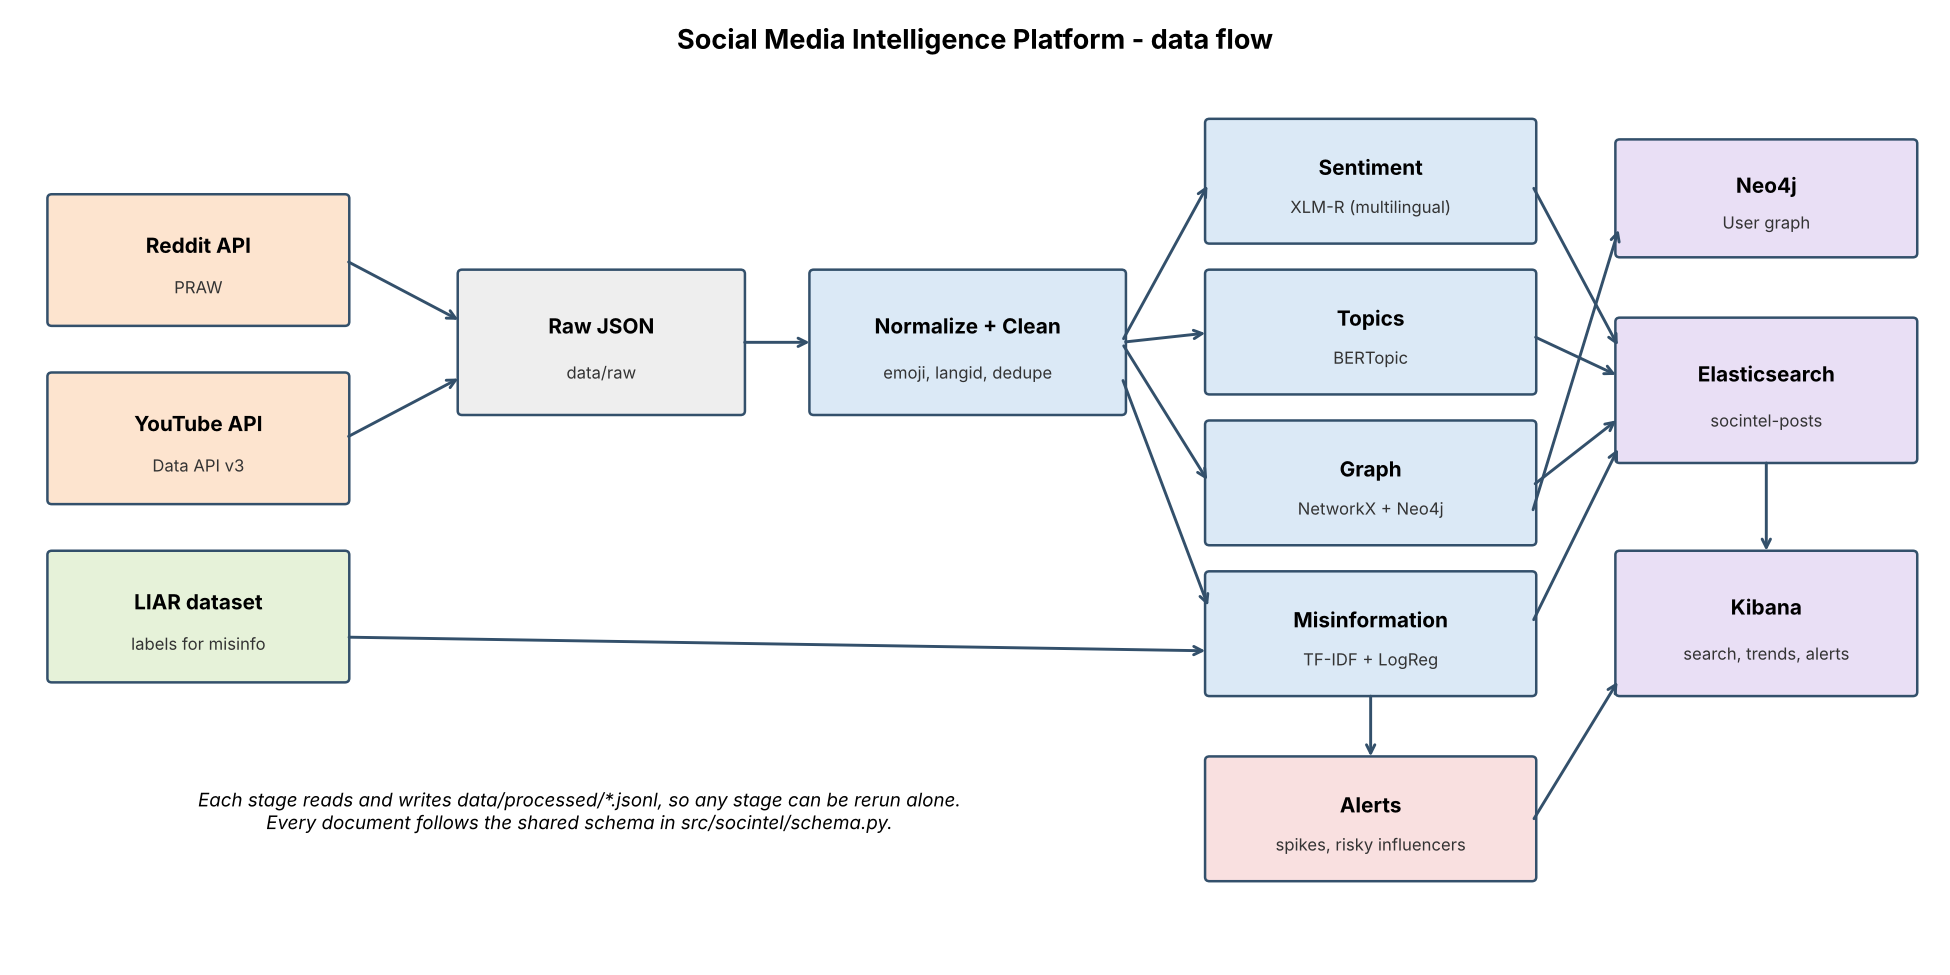
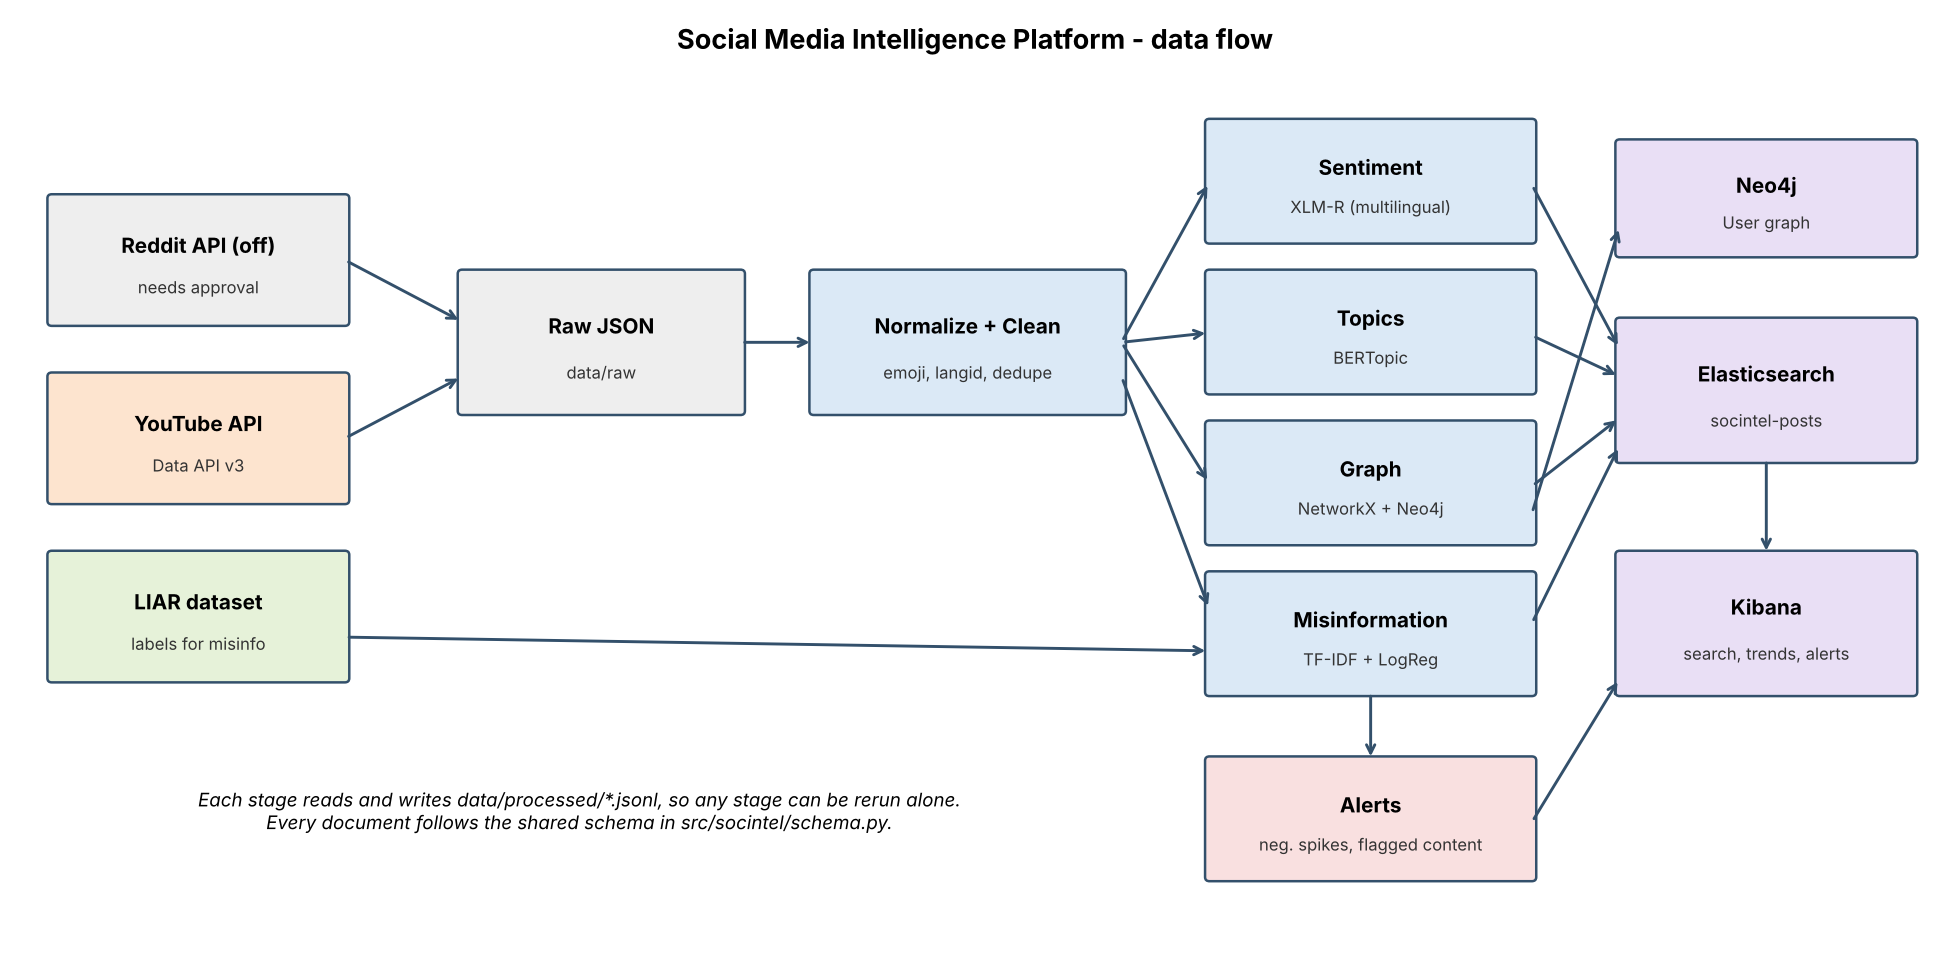
Results from the real run, updated README, Kibana guide and diagram

Changed region(s): [[0.0, 0.1846, 0.1846, 0.3385], [0.6462, 0.8615, 0.7692, 0.8923]]

diff --git a/docs/results.md b/docs/results.md
@@ -1,44 +1,117 @@
 # Results
 
-> Fill this in from `data/processed/metrics.json` and the CSVs after running the pipeline on real data.
-> Do not quote numbers that the pipeline did not produce.
+All numbers come from `data/processed/metrics.json` or the CSVs next to it, from one run on 25 Oct 2026.
+Items marked **TODO** have not been measured yet and are left open on purpose. Numbers labelled "my labels" come from my own hand check (`scripts/make_review_sheets.py`, `scripts/score_review.py`).
 
 ## Data collected
-- YouTube videos / comments / replies: _
-- Public benchmarks used: TweetEval, Amazon multilingual, LIAR, SNAP
-- After cleaning: _ rows, language mix: _ (`metrics.json` -> `clean`)
+- YouTube: 299 videos from 12 search queries (English, Hindi, Spanish and German queries), top-level comments plus
+  up to 5 inline replies per thread. Reddit was not collected (needs Reddit approval, see README).
+- After cleaning and de-duplication: **11,233 rows**.
+- Language mix (detected): en 66.1%, und 13.5% (too short or ambiguous), pt 4.7%, de 3.8%, mr 2.6%, hi 2.4%,
+  id 2.1%, es 1.2%, ko 0.7%, ru 0.6%.
+- Time spread: comments run from 2011 to 24 Oct 2026, but 16.9% are from before 2026 and **4,332 (38.6%) are from the
+  last week of collection** (week of 19 Oct). YouTube search returns recent videos, and fresh videos collect most of
+  their comments early. Weekly counts before that week are 241 to 572.
+- Public benchmarks used: TweetEval, Multilingual Amazon Reviews (SetFit port), LIAR, SNAP Reddit hyperlinks.
 
 ## Sentiment
-- Label distribution on our data: _
-- TweetEval (English test sample) accuracy / macro-F1: _ / _  (`bench_tweeteval`)
-- Multilingual Amazon Reviews, accuracy / macro-F1 per language: _ (`bench_amazon_by_language`)
-- Throughput (docs/sec on CPU or GPU used): _
-- Observations: sentiment over time chart, any events visible, languages where it looks weak.
+Model: `cardiffnlp/twitter-xlm-roberta-base-sentiment`, run on CPU (Intel i3) at 18.2 docs/s.
+
+- Label share on our comments: negative 48.5%, neutral 29.1%, positive 22.4%.
+- TweetEval (English tweets, 2,000 test samples): accuracy 0.661, macro-F1 0.660.
+- Multilingual Amazon Reviews, 1,000 test reviews per language, 1-2 stars = negative, 3 = neutral, 4-5 = positive:
+
+| language | accuracy | macro-F1 |
+|---|---|---|
+| en | 0.688 | 0.584 |
+| de | 0.653 | 0.528 |
+| es | 0.669 | 0.576 |
+| fr | 0.686 | 0.553 |
+| ja | 0.665 | 0.562 |
+| zh | 0.629 | 0.525 |
+
+- Reading these: the model was trained on tweets, not product reviews, and "3 stars = neutral" is a rough label, so
+  macro-F1 sits well below accuracy. English is best, Chinese worst, the rest are within a few points of each other.
+- **Check on our own data:** I labelled 100 random comments from the collected set by hand (one annotator, labels
+  recorded before looking at the model's). Model vs my labels: **accuracy 0.73, macro-F1 0.695** (n = 100, so
+  roughly +/- 9 points at 95% confidence). Per class recall: negative 43/53, neutral 14/23, positive 16/24.
+  Confusion matrix (rows = my label, columns = model, order negative / neutral / positive):
+  [[43, 8, 2], [5, 14, 4], [4, 4, 16]]. The most common error is calling a neutral or mildly negative comment
+  negative. Label shares were close: negative 53% (mine) vs 52% (model), neutral 23% vs 26%, positive 24% vs 22%,
+  so on this sample the 48.5% negative share over all comments does not look inflated. It is a small sample from one
+  annotator, including languages the annotator reads only partly.
+- Over time (Kibana, weekly share over the last year): negative stays around 40-60% every week with no sharp trend.
 
 ## Topics
-- Number of topics, outlier share: _ (`topics`)
-- Topic coherence (optional, gensim `CoherenceModel`, c_v): _
-- Topics that rose/fell: _ (`topics_over_time.csv`)
+- BERTopic with `paraphrase-multilingual-MiniLM-L12-v2` embeddings: **95 topics**, **37.5%** of comments are outliers
+  (topic -1, mostly very short comments).
+- Largest topics: Ukraine/Russia (644 comments), vaccines (530), climate (519), a Hinglish chat topic (361),
+  AI and jobs (330), YouTube/video chatter (233), bitcoin (160), inflation (127), BJP/Congress (105),
+  religion (104), fact-check videos (95), conspiracy theories (81). Topic names come from c-TF-IDF words.
+- Some topics are not real subjects: topic 8 (`spcx9k_spx50c`) looks like spam or bot comments, and a few topics
+  group by language rather than meaning. **TODO:** read 10 comments from topic 8 and say what they are.
+- Topic coherence was not computed. Rising and falling topics: `topics_over_time.csv` exists, **TODO** review.
 
 ## Graph
-- YouTube reply graph: nodes / edges / density / largest component / modularity: _ (`graph`)
-- SNAP subreddit graph at scale: _ (`bench_snap_graph`), top subreddits by PageRank: _ (`snap_top_subreddits.csv`)
-- Top 10 influencers by PageRank and what they posted: _ (`user_ranks.csv`)
+Edge A -> B means A replied to B. Weighted PageRank and Louvain communities (NetworkX).
 
-## Misinformation (LIAR, binary)
-| model | accuracy | precision | recall | F1 | ROC-AUC |
+| graph | nodes | edges | components | largest component | modularity |
 |---|---|---|---|---|---|
-| TF-IDF + LogReg | _ | _ | _ | _ | _ |
-| DistilBERT (optional) | _ | _ | _ | _ | _ |
+| YouTube, everyone incl. commenter -> video owner | 9,739 | 10,050 | 121 | 1,696 nodes (17.4%) | 0.98 |
+| YouTube, comment-to-comment replies only | 1,492 | 1,085 | 434 | 52 nodes (3.5%) | 0.99 |
+| SNAP subreddit hyperlinks | 54,075 | 234,792 | 758 | 52,468 nodes (97.0%) | 0.47 |
 
-- Error analysis: look at `misinfo_errors.csv`, describe 3 to 5 real failures and why.
-- Domain-shift limitation: see README.
+- The full YouTube graph is dominated by video owners by construction (every commenter points at the owner), so
+  influencers are ranked on the replies-only graph.
+- The YouTube graphs are very fragmented: most reply threads are a single exchange. The high modularity (0.98)
+  is a side effect of many tiny disconnected clusters, not a sign of strong community structure.
+  PageRank is flat: the top author has 0.004, so there are no dominant accounts in this sample.
+- SNAP at scale: top subreddits by PageRank are iama, askreddit, pics, funny, videos, the_donald, gaming,
+  todayilearned, music, worldnews (`snap_top_subreddits.csv`). Modularity 0.47 with real community structure.
+- Neo4j: the full graph is loaded by the graph stage (`docker compose --profile graph up -d neo4j`) and was checked in
+  Neo4j Browser; the top-PageRank node is a video owner with 150+ users replying to it (star-shaped cluster).
+
+## Misinformation (LIAR, binary: pants-fire/false/barely-true = 1)
+| model | split | accuracy | precision | recall | F1 | ROC-AUC |
+|---|---|---|---|---|---|---|
+| TF-IDF + LogReg | validation | 0.622 | 0.607 | 0.606 | 0.606 | 0.668 |
+| TF-IDF + LogReg | test | 0.632 | 0.579 | 0.579 | 0.579 | 0.671 |
+| DistilBERT (optional) | | not run | | | | |
+
+- Strongest words for "misleading": wisconsin, obama, rep, illegals, obamacare, scott walker, muslim.
+  For "truthful": than, countries, since, percent, million, debt, average. The model has partly learned US political
+  topics and speakers and numeric phrasing, not truthfulness.
+- Domain shift: LIAR is fact-checked political statements; our data is YouTube comments. Applied to our comments the
+  score means "sounds like a statement fact-checkers rated misleading".
+- Error analysis on our data: I read all 21 flagged posts (misinfo score >= 0.7, top-50 PageRank authors) and
+  judged each myself: **5 misleading, 7 opinion, 9 other** (24% of the flags look like checkable false or misleading
+  claims; judged by reading, not by fact-checking against sources). Examples of the false positives: "Bow down to
+  the aggressor now...", "Stop saying that. Russia is the bad guy...", "shes not germanys president" are opinions or
+  short reactions. The score picks up how political claims sound, not whether they are true, so it is a ranking
+  aid for a human reviewer, not a detector.
+  `misinfo_errors.csv` has the LIAR test errors to describe as well.
 
 ## Elasticsearch
-- Docs indexed, errors, docs/sec, sample query latency: _ (`elasticsearch`)
+- 11,233 documents indexed, 0 errors, 2,326 docs/s, sample text query ("vaccine", 261 hits) in 72 ms.
+- Two Kibana dashboards (exported in `kibana/dashboards.ndjson`): Trends (sentiment share per week, topic volume,
+  language mix) and Influencers and Alerts (PageRank table, flagged content).
 
 ## Alerts
-- Negative-sentiment spikes found: _; flagged high-reach posts: _ (`alerts`)
+- Negative-sentiment spikes: **9** topic-weeks out of 76 that had at least 15 posts. Rule: a topic-week whose
+  negative share is at least 2 standard errors above that topic's share in its other weeks (binomial z-test).
+  Six of the top eight are the week of 19 Oct, the same week that holds 39% of the data, so they most likely reflect
+  fresh videos and the model's negative lean, not news events.
+- Flagged high-reach content: **21** posts with misinfo score >= 0.7 by authors in the top 50 by PageRank
+  (ties at the cut-off kept). These are posts to review, not judgements about accounts.
 
 ## Challenges
-_Rate limits, sparse graph, noisy short comments, language ID on short text, etc. Write what actually happened._
+- Reddit API access needs approval and its policy limits ML use, so YouTube is the live source.
+- YouTube quota: `search.list` costs 100 units; the config estimates about 1,700 of the 10,000 daily units for a full run. The collector had to
+  skip results with no video id, skip videos with comments disabled, and resume.
+- Language ID is poor on short and romanized text (romanized Telugu was labelled sn/la/jv before constraining the
+  label set); about 13.5% of rows stay `und`.
+- Topic names filled with Hinglish and other-language filler words until I added custom stop words.
+- A standard-deviation z-score cannot fire when a topic has only 2-4 judgeable weeks (maximum is (k-1)/sqrt(k)); the
+  first alert rule found zero spikes for that reason, so I switched to a binomial test.
+- Collected comments are skewed to the most recent week, which limits what the time series can show.
+- 8 GB laptop: Docker, Elasticsearch, Kibana and Neo4j do not fit together, so Neo4j is behind a Compose profile.

diff --git a/README.md b/README.md
@@ -15,7 +15,7 @@ Reddit collection is built in but **switched off**, because Reddit requires appr
 |---|---|---|
 | 1. Collect | YouTube videos + comments + replies, raw JSON on disk (Reddit collector available but disabled) | YouTube Data API v3, PRAW |
 | 2. Clean | strip URLs/mentions/markdown, emojis turned into words, language detection, dedupe | `emoji`, `py3langid` (Spark NLP version in `spark_stage.py`) |
-| 3. Sentiment | multilingual negative/neutral/positive, tracked per day | `cardiffnlp/twitter-xlm-roberta-base-sentiment` |
+| 3. Sentiment | multilingual negative/neutral/positive, tracked per week | `cardiffnlp/twitter-xlm-roberta-base-sentiment` |
 | 4. Topics | topic discovery and topics over time | BERTopic + multilingual MiniLM embeddings |
 | 5. Graph | who replies to whom, PageRank influencers, Louvain communities | NetworkX, Neo4j |
 | 6. Misinformation | claim classifier trained on LIAR (TF-IDF + LogReg baseline, optional DistilBERT) | scikit-learn, transformers |
@@ -31,7 +31,8 @@ python -m venv .venv && source .venv/bin/activate
 pip install -r requirements.txt
 
 cp .env.example .env            # add YOUTUBE_API_KEY and an AUTHOR_SALT (any random string)
-docker compose up -d            # Elasticsearch :9200, Kibana :5601, Neo4j :7474
+docker compose up -d            # Elasticsearch :9200, Kibana :5601
+docker compose --profile graph up -d neo4j   # optional, Neo4j :7474 (heavy on small machines)
 ```
 
 Credentials: a YouTube Data API v3 key from Google Cloud Console. Reddit credentials are only needed if Reddit
@@ -54,7 +55,7 @@ python -m socintel.run_pipeline all        # clean -> sentiment -> topics -> gra
 # or one at a time:
 python -m socintel.run_pipeline clean sentiment
 
-python scripts/setup_kibana.py             # creates the data view; then follow docs/kibana.md
+python scripts/setup_kibana.py --import kibana/dashboards.ndjson   # data view + dashboards (docs/kibana.md)
 ```
 
 Intermediate files go to `data/processed/`. All headline numbers are written to `data/processed/metrics.json`.
@@ -114,7 +115,24 @@ config.yaml     subreddits, queries, model names, thresholds
 
 ## Results
 
-See `docs/results.md` (numbers come from `data/processed/metrics.json` after a run).
+Full numbers and discussion in `docs/results.md`; every figure comes from `data/processed/metrics.json`.
+
+Headline (11,233 YouTube comments, 299 videos, 12 search queries in 6 languages):
+
+| | |
+|---|---|
+| Sentiment, TweetEval (EN tweets) | accuracy 0.661, macro-F1 0.660 |
+| Sentiment, Amazon reviews, 6 languages | accuracy 0.629 to 0.688, macro-F1 0.525 to 0.584 |
+| Sentiment vs hand labels on our own comments | accuracy 0.73, macro-F1 0.695 (n = 100) |
+| Topics (BERTopic) | 95 topics, 37.5% of comments left as outliers |
+| Misinformation, LIAR test (TF-IDF + LogReg) | accuracy 0.632, F1 0.579, ROC-AUC 0.671 |
+| Elasticsearch | 11,233 docs indexed, 0 errors, about 2,300 docs/s, sample query 72 ms |
+| SNAP subreddit graph | 54,075 nodes, 234,792 edges, modularity 0.47 |
+
+Caveats worth knowing before reading anything into the charts: 39% of the comments fall in the last week of
+collection (YouTube search returns recent videos), so the time series is dominated by that week; the comment-reply
+graph is very fragmented (434 components, the largest holding 52 users); and the misinformation score reflects
+LIAR's political-statement style, not truth.
 
 ## Next steps
 

diff --git a/docs/kibana.md b/docs/kibana.md
@@ -8,12 +8,30 @@
 **Dashboard 1 - Search and overview:** saved search on `clean_text`, filters for `source`, `language`, `community`;
 metric tiles (docs, share negative); language pie.
 
-**Dashboard 2 - Trends:** stacked area of `sentiment` over `created` (daily); line of docs per `topic_label`
+**Dashboard 2 - Trends:** stacked area of `sentiment` over `created` (weekly); line of docs per `topic_label`
 (top 10 topics); bar of avg `sentiment_score` by `community`.
 
 **Dashboard 3 - Alerts and influencers:** table of top authors by `author_pagerank`; table filtered on
 `misinfo_prob >= 0.7` and high pagerank; a Kibana rule (Stack Management > Rules > Elasticsearch query) with
-the KQL `sentiment : "negative"` over the last 24h, threshold set above the normal daily count for the topic.
+the KQL `sentiment : "negative"` over the last 24h, threshold set above the normal weekly count for the topic.
 
 The pandas alert logic in `src/socintel/alerts.py` is what the unit tests cover; the Kibana rule is the
 operational version of the same idea.
+
+## Ready-made dashboards
+
+`kibana/dashboards.ndjson` holds the two dashboards, their charts and the saved search. After `docker compose up -d`
+and the `index` stage: `python scripts/setup_kibana.py --import kibana/dashboards.ndjson`.
+
+- **Trends:** sentiment share per week, topic volume per week, language mix.
+- **Influencers and alerts:** top authors by PageRank (hashed ids) and the saved search
+  `misinfo_prob >= 0.7 and author_pagerank >= <PageRank of the 50th-ranked author>`, the same rule as
+  `alerts.flagged_high_reach_posts` (authors tied at the cut-off are kept).
+
+Kibana shows numbers with 3 decimals, so small PageRank values display as 0.
+
+## Small machines
+
+Docker is the heavy part. On an 8 GB laptop, cap Docker's WSL memory at 4 GB (`.wslconfig`) and start only
+Elasticsearch and Kibana (`docker compose up -d`); Neo4j sits behind a profile:
+`docker compose --profile graph up -d neo4j`.
